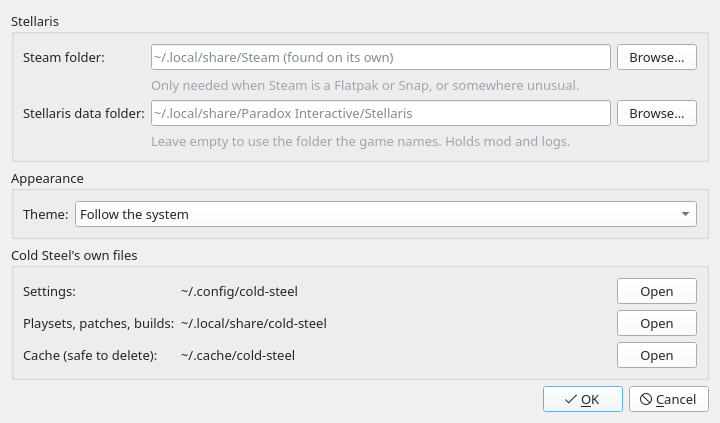
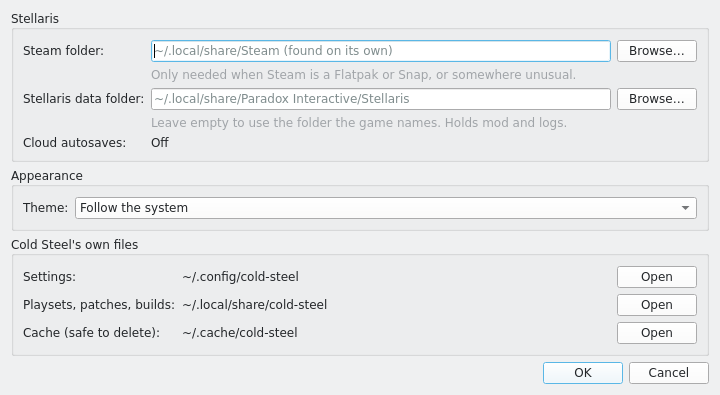
Retake the README screenshots with the Saves features
Adds a Saves window picture to the README's Saves section, and says
Settings shows whether cloud autosaves are on. make screenshots now also
takes the Saves window, for the playset with the most saves, and builds
Settings as the app does, so its Cloud autosaves line shows. It reads
copies of the playsets and save bindings, so no save is bound or moved.

Taken in the dev container, light and dark, offscreen with Qt's Fusion
style, with Cold Steel Mix in the main window and Conflicts.

diff --git a/tools/screenshots.py b/tools/screenshots.py
@@ -3,10 +3,12 @@
     make screenshots
     make screenshots PLAYSET="Cold Steel Mix"
 
-It shows the playset you last played, or the one PLAYSET names. Run it on
-the host for the desktop's own style; in the container it draws off screen
-with Qt's plain style. Your playsets are read from a copy, so nothing of
-yours is changed. Pictures go in screenshots/.
+It shows the playset you last played, or the one PLAYSET names. The Saves
+window shows the playset with the most saves; it's left out while the game's
+cloud autosaves are on. Run it on the host for the desktop's own style; in
+the container it draws off screen with Qt's plain style. Your playsets and
+save bindings are read from copies, so nothing of yours is changed.
+Pictures go in screenshots/.
 """
 
 import argparse
@@ -19,6 +21,8 @@ from PySide6.QtCore import Qt, QTimer
 from PySide6.QtWidgets import QApplication, QWidget
 
 from cold_steel.core.library import Scanner
+from cold_steel.core.saves import bound_saves
+from cold_steel.paradox.save import autosaves_to_cloud
 from cold_steel.store import paths
 from cold_steel.store.settings import Theme, load_settings
 from cold_steel.ui.help import WelcomeDialog
@@ -35,8 +39,9 @@ def main() -> int:
     wanted = parser.parse_args().playset
     OUT.mkdir(exist_ok=True)
     scratch = Path(tempfile.mkdtemp(prefix="cold-steel-shots-"))
-    if (mine := paths.data_dir() / "playsets.json").exists():
-        shutil.copy(mine, scratch / "playsets.json")
+    for name in ("playsets.json", "saves.json"):
+        if (mine := paths.data_dir() / name).exists():
+            shutil.copy(mine, scratch / name)
 
     app = QApplication(sys.argv[:1])
     app.setApplicationName("Cold Steel")
@@ -45,6 +50,8 @@ def main() -> int:
         Scanner.from_settings(settings),
         playsets_path=scratch / "playsets.json",
         backup_dir=scratch / "backups",
+        saves_path=scratch / "saves.json",
+        hidden_path=scratch / "hidden.json",
         settings=settings,
     )
 
@@ -53,25 +60,34 @@ def main() -> int:
         widget.grab().save(str(OUT / f"{name}.png"))
         print(OUT / f"{name}.png")
 
+    def select(playset_id: str | None) -> bool:
+        for row in range(window.playset_list.count()):
+            if window.playset_list.item(row).data(Qt.ItemDataRole.UserRole) == playset_id:
+                window.playset_list.setCurrentRow(row)
+                return True
+        return False
+
     def select_playset() -> None:
         book = window.book
         named = [p.id for p in book.playsets if p.name == wanted] if book and wanted else []
         if wanted and not named:
             print(f"No playset is called {wanted!r}. Showing the one you last played.")
-        choice = named[0] if named else book.active if book else None
-        for row in range(window.playset_list.count()):
-            if window.playset_list.item(row).data(Qt.ItemDataRole.UserRole) == choice:
-                window.playset_list.setCurrentRow(row)
-                return
-        window.playset_list.setCurrentRow(min(1, window.playset_list.count() - 1))
+        if not select(named[0] if named else book.active if book else None):
+            window.playset_list.setCurrentRow(min(1, window.playset_list.count() - 1))
 
     def take(theme: Theme) -> None:
         apply_theme(app, theme)
         save(window, f"main-{theme}")
+        # Built as the app builds it, with the game's cloud autosave setting.
         library = window.library
-        found = library.game.data_dir if library else None
+        data_dir = library.game.data_dir if library else None
+        found = None if settings.game_data_dir else data_dir
+        cloud = autosaves_to_cloud(data_dir) if data_dir else None
+        settings_dialog = SettingsDialog(
+            settings, found, window, game_found=library is not None, cloud_autosaves=cloud
+        )
         for name, dialog in (
-            ("settings", SettingsDialog(settings, found, window)),
+            ("settings", settings_dialog),
             ("welcome", WelcomeDialog(window)),
         ):
             dialog.show()
@@ -94,6 +110,25 @@ def main() -> int:
     def take_all() -> None:
         take("light")
         take("dark")
+        book, bindings, saves = window.book, window.bindings, window.saves
+        if not (window.saves_on and book and bindings and saves):
+            print("No saves to show (cloud autosaves on, or none found): skipped the Saves window.")
+            app.quit()
+            return
+        most = max(book.playsets, key=lambda p: len(bound_saves(saves, bindings, p.id)))
+        select(most.id)
+        window.saves_found.connect(lambda _: QTimer.singleShot(500, saves_ready))
+        window.show_saves()
+
+    def saves_ready() -> None:
+        dialog = window._saves_dialog
+        if dialog is not None:
+            # Open the newest save to show its files.
+            if (first := dialog.bound.topLevelItem(0)) is not None:
+                first.setExpanded(True)
+            for theme in ("light", "dark"):
+                apply_theme(app, theme)
+                save(dialog, f"saves-{theme}")
         app.quit()
 
     def library_ready() -> None:

diff --git a/README.md b/README.md
@@ -163,6 +163,8 @@ autosaves to Steam Cloud by default, and Cold Steel can't move those files.
 Until you turn them off in the game's settings, none of this shows.
 **Settings** says whether they're on.
 
+![The Saves window: a playset's saves, one open to show its files](screenshots/saves-dark.png)
+
 - **Saves…** lists the playset's saves, newest first. Open one to see its
   files, local and in Steam Cloud.
 - A save you start with **▶ Play** belongs to that playset when the game
@@ -202,7 +204,8 @@ Until you turn them off in the game's settings, none of this shows.
 
 **File › Settings** sets where Steam is, where Stellaris keeps its data, and
 the theme. By default Cold Steel follows your desktop's light or dark theme.
-It also shows where Cold Steel keeps its own files.
+It also shows whether the game's cloud autosaves are on, and where Cold
+Steel keeps its own files.
 
 ![The Settings window](screenshots/settings-dark.png)
 
